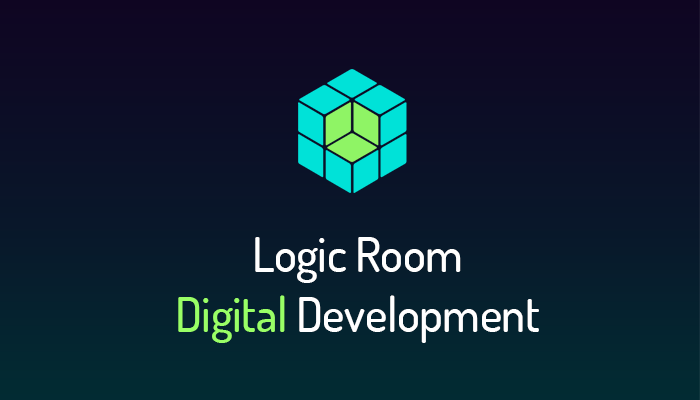
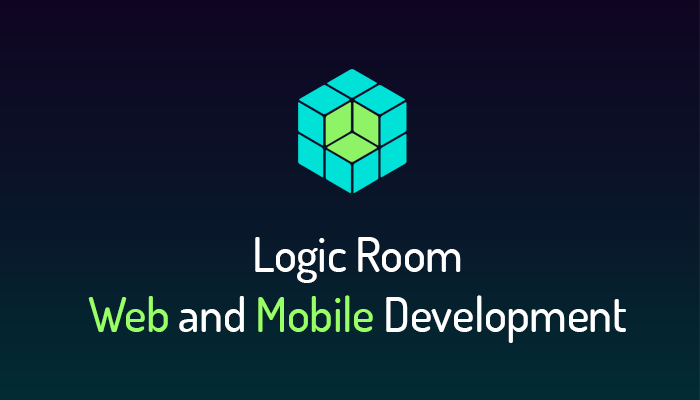
updated titles

Changed region(s): [[0.12, 0.72, 0.9, 0.87]]

diff --git a/index.html b/index.html
@@ -1,5 +1,5 @@
 ---
-title : Web and Mobile App Software Development Reading London
+title : Web and Mobile App Software Development Reading & London
 layout: default_navigation
 ---
 
